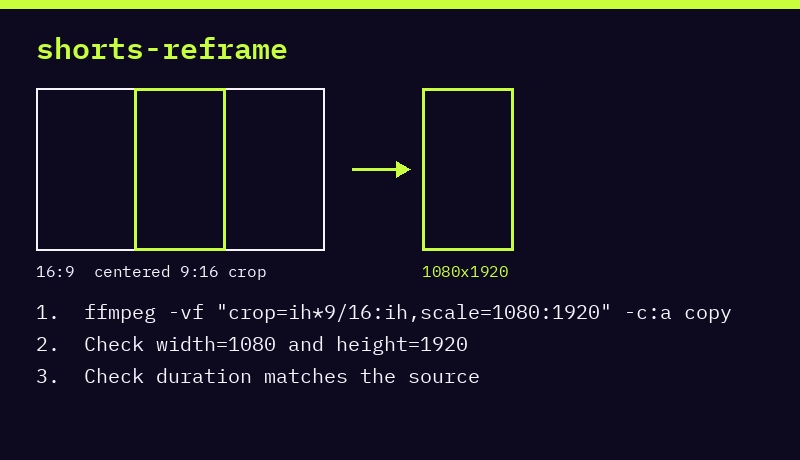
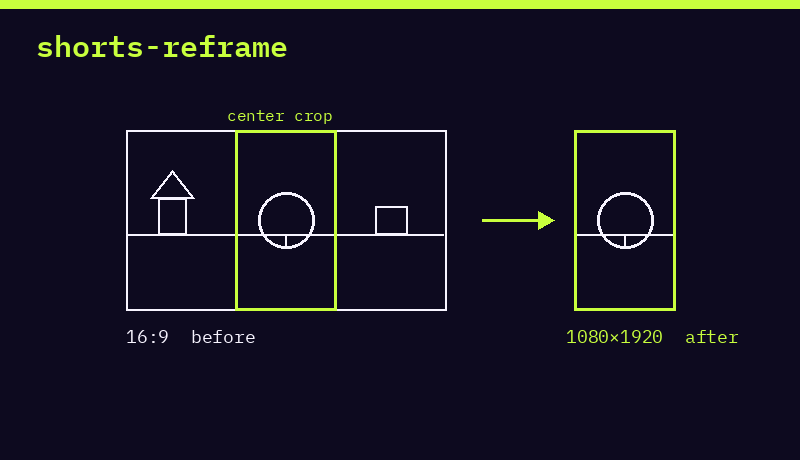
Top 3: Marketer copy and result visuals (#20)
* Top 3: Marketer one-liners and result visuals

Replace the placeholder Top 3 lines with Marketer's copy, and redraw
the cards as a 16:9 to 9:16 crop, a mock article header, and the
labeled botkits.dev is-agentic score from 17 Nov 2026.

* Top 3 aeo-geo-site card: is-agentic score 79 to 100

Webmaster confirmed the 17 Nov 2026 scan of botkits.dev reached
100/100, after 79 and 81 the same day. The card now shows that climb
with the existing source label.

* README: use Designer's D1-closed logo

Swap the placeholder SVG for the picked D1-closed wordmark. Light
mode uses logo-wide, dark mode uses header-dark, with @2x sources.
The square mark is in assets/mark-512.png.

diff --git a/README.md b/README.md
@@ -1,5 +1,9 @@
 <p align="center">
-  <img src="assets/logo-wide.svg" alt="botskills" width="800">
+  <picture>
+    <source media="(prefers-color-scheme: dark)" srcset="assets/header-dark.png 1x, assets/header-dark@2x.png 2x">
+    <source media="(prefers-color-scheme: light)" srcset="assets/logo-wide.png 1x, assets/logo-wide@2x.png 2x">
+    <img src="assets/logo-wide.png" alt="botskills" width="800">
+  </picture>
 </p>
 
 <p align="center">
@@ -33,19 +37,19 @@ Kits and install guides: [botkits.dev](https://botkits.dev)
 <table>
 <tr>
 <td valign="top" width="33%">
-<p align="center"><a href="skills/video/shorts-reframe/"><img src="assets/top3-shorts-reframe.png" alt="shorts-reframe: center-crop 16:9 to 9:16, scale to 1080x1920, then check size and duration"></a></p>
+<p align="center"><a href="skills/video/shorts-reframe/"><img src="assets/top3-shorts-reframe.png" alt="shorts-reframe: 16:9 frame and the 9:16 center-crop result at 1080×1920"></a></p>
 <strong><a href="skills/video/shorts-reframe/">shorts-reframe</a></strong><br>
-Turn a 16:9 video into 9:16 with a fixed center crop, scale to 1080x1920, keep the audio, and check duration and resolution.
+Turn a 16:9 video into a 1080×1920 Short. Center crop, audio kept, length and size checked.
 </td>
 <td valign="top" width="33%">
-<p align="center"><a href="skills/writing/x-article/"><img src="assets/top3-x-article.png" alt="x-article steps: outline, draft, source-check, lint, promo post, hand over. Do not post."></a></p>
+<p align="center"><a href="skills/writing/x-article/"><img src="assets/top3-x-article.png" alt="x-article: mock article header with a hook line, a section, and an image slot"></a></p>
 <strong><a href="skills/writing/x-article/">x-article</a></strong><br>
-Write or rewrite an X Article (long-form on x.com/i/article), with images between sections, a first-line hook, and no invented numbers.
+Turn rough notes into an X Article, with a first-line hook, images between sections and no invented numbers.
 </td>
 <td valign="top" width="33%">
-<p align="center"><a href="skills/seo/aeo-geo-site/"><img src="assets/top3-aeo-geo-site.png" alt="aeo-geo-site steps: schema, intent, draft, llms.txt, then a live fetch and an agent-readiness scan"></a></p>
+<p align="center"><a href="skills/seo/aeo-geo-site/"><img src="assets/top3-aeo-geo-site.png" alt="aeo-geo-site: botkits.dev is-agentic score, 79 to 81 to 100, is-agentic.com, 17 Nov 2026"></a></p>
 <strong><a href="skills/seo/aeo-geo-site/">aeo-geo-site</a></strong><br>
-Build or update a website for SEO plus AEO/GEO (AI assistants, ChatGPT, Copilot, Gemini) so pages are machine-readable, intent-clear, and citable.
+Make your site easy for ChatGPT, Gemini and Copilot to read, understand and cite.
 </td>
 </tr>
 </table>
